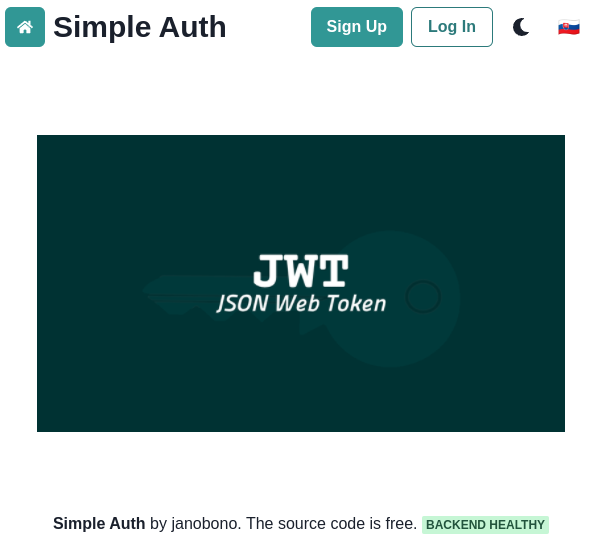
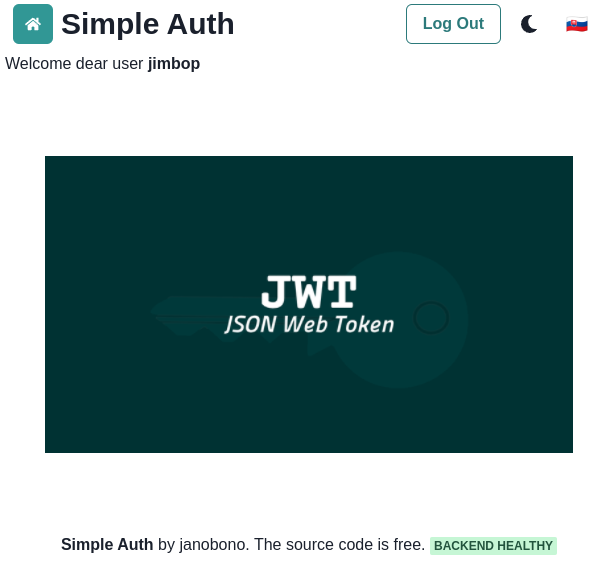
login/logout

diff --git a/simple-auth-frontend/src/contexts/auth-context.tsx b/simple-auth-frontend/src/contexts/auth-context.tsx
@@ -1,25 +1,30 @@
 import React, { FunctionComponent, useEffect, useState } from 'react';
 import jwt_decode from 'jwt-decode';
 
+interface LoginForm {
+    username: string,
+    password: string
+}
+
 interface TokenPayload {
     exp: number,
     iat: number,
     iss: string,
-    sub: string,
+    sub: string
 }
 
 interface Payload {
     exp: Date,
     iat: Date,
     iss: string,
-    username: string,
+    username: string
 }
 
 export interface AuthContextValue {
     bearer: String | undefined,
     payload: Payload | undefined,
     onLogout: () => void,
-    onLogin: (username: string, password: string) => Promise<number>
+    onLogin: (data: LoginForm) => Promise<any>
 }
 
 const AuthContext = React.createContext<AuthContextValue>({
@@ -27,8 +32,7 @@ const AuthContext = React.createContext<AuthContextValue>({
     payload: undefined,
     onLogout: () => {
     },
-    onLogin: async (username, password) => {
-        return 500;
+    onLogin: async (data: LoginForm) => {
     }
 });
 
@@ -38,6 +42,7 @@ export const AuthContextProvider: FunctionComponent = (props) => {
 
     const decodeToken = (token: string) => {
         const decodedPayload = jwt_decode<TokenPayload>(token);
+        console.log(decodedPayload);
         if (decodedPayload) {
             if (decodedPayload.exp * 1000 > Date.now()) {
                 localStorage.setItem('token', token);
@@ -59,27 +64,22 @@ export const AuthContextProvider: FunctionComponent = (props) => {
         }
     }, []);
 
-    const login = async (username: string, password: string) => {
-        try {
-            const response = await fetch(
-                '/api/backend/authenticate',
-                {
-                    method: 'POST',
-                    headers: {
-                        'Content-Type': 'application/json'
-                    },
-                    body: JSON.stringify({username, password})
-                });
-            if (response.status === 200) {
-                const {bearer} = await response.json();
-                decodeToken(bearer);
-            }
-            return response.status;
-        } catch (error) {
-            console.log(error);
-            logout();
+    const login = async (data: LoginForm) => {
+        const response = await fetch(
+            '/api/backend/authenticate',
+            {
+                method: 'POST',
+                headers: {
+                    'Content-Type': 'application/json'
+                },
+                body: JSON.stringify(data)
+            });
+        if (response.status === 200) {
+            const {bearer} = await response.json();
+            decodeToken(bearer);
+        } else {
+            throw new Error('Something went wrong!!!');
         }
-        return 500;
     };
 
     const logout = () => {

diff --git a/simple-auth-frontend/src/pages/LogInPage.tsx b/simple-auth-frontend/src/pages/LogInPage.tsx
@@ -1,10 +1,26 @@
-import { FunctionComponent } from 'react';
+import { FunctionComponent, useContext, useState } from 'react';
 import { FieldValues, useForm } from 'react-hook-form'
-import { Button, FormControl, FormErrorMessage, FormLabel, Input, } from '@chakra-ui/react'
+import {
+    Alert,
+    AlertIcon,
+    AlertTitle,
+    Button,
+    FormControl,
+    FormErrorMessage,
+    FormLabel,
+    Input,
+} from '@chakra-ui/react'
 import { useTranslation } from 'react-i18next';
+import { useNavigate } from 'react-router';
+import { useMutation } from 'react-query';
+import AuthContext from '../contexts/auth-context';
 
 const LogInPage: FunctionComponent = () => {
     const {t} = useTranslation();
+    const navigate = useNavigate();
+    const authCtx = useContext(AuthContext);
+
+    const [error, setError] = useState(false);
 
     const {
         handleSubmit,
@@ -12,8 +28,18 @@ const LogInPage: FunctionComponent = () => {
         formState: {errors, isSubmitting},
     } = useForm();
 
+    const {mutate} = useMutation(authCtx.onLogin, {
+        onSuccess: data => {
+            navigate('/');
+        },
+        onError: () => {
+            setError(true);
+        }
+    });
+
     const onSubmit = async (values: FieldValues) => {
-        alert(JSON.stringify(values, null, 2));
+        setError(false);
+        mutate({username: values.username, password: values.password});
     }
 
     return (
@@ -51,6 +77,13 @@ const LogInPage: FunctionComponent = () => {
             <Button mt={4} isLoading={isSubmitting} type="submit">
                 {t('logIn.submit')}
             </Button>
+
+            {error &&
+                <Alert status="error">
+                    <AlertIcon/>
+                    <AlertTitle mr={2}>{t('logIn.error')}</AlertTitle>
+                </Alert>
+            }
         </form>
     );
 }

diff --git a/simple-auth-frontend/src/components/layout/Header.tsx b/simple-auth-frontend/src/components/layout/Header.tsx
@@ -49,14 +49,8 @@ const Header: FunctionComponent = () => {
                                     authCtx.onLogout();
                                     navigate('/');
                                 }}>{t('header.log-out')}</Button>
-                                : <React.Fragment>
-                                    <Button colorScheme="teal" variant="solid" onClick={() => navigate('/sign-up')}>
-                                        {t('header.sign-up')}
-                                    </Button>
-                                    <Button colorScheme="teal" variant="outline" onClick={() => navigate('/log-in')}>
-                                        {t('header.log-in')}
-                                    </Button>
-                                </React.Fragment>
+                                : <Button colorScheme="teal" variant="outline" onClick={() => navigate('/log-in')}>
+                                    {t('header.log-in')}</Button>
                             }
                             <ColorModeSwitcher justifySelf="flex-end"/>
                             <LocaleSwitcher/>
@@ -65,8 +59,7 @@ const Header: FunctionComponent = () => {
                 </Flex>
                 {authCtx.payload &&
                     <Stack>
-                        <Text>Welcome dear
-                            user <strong>{authCtx.payload.username} {authCtx.payload.iat}</strong></Text>
+                        <Text>{t('header.welcome')}<span> </span><strong>{authCtx.payload.username}</strong></Text>
                     </Stack>
                 }
             </Container>

diff --git a/simple-auth-frontend/src/App.tsx b/simple-auth-frontend/src/App.tsx
@@ -3,7 +3,6 @@ import Layout from './components/layout/Layout';
 import { BrowserRouter, Route, Routes } from 'react-router-dom';
 import HomePage from './pages/HomePage';
 import LogInPage from './pages/LogInPage';
-import SignUpPage from './pages/SignUpPage';
 
 function App() {
     return (
@@ -12,7 +11,6 @@ function App() {
                 <Routes>
                     <Route path="/" element={<HomePage/>}/>
                     <Route path="/log-in" element={<LogInPage/>}/>
-                    <Route path="/sign-up" element={<SignUpPage/>}/>
                     <Route path="*" element={<HomePage/>}/>
                 </Routes>
             </Layout>

diff --git a/README.md b/README.md
@@ -38,14 +38,14 @@ docker-compose down
 
 If you want you can import test user with attributes:
 
-| attribute   | value                      |
-|-------------|----------------------------|
-| username    | trevor.ochmonek.dev        |
-| password    | MelmacAlf+456              |
-| email       | trevor.ochmonek@melmac.com |
-| given_name  | Trevor                     |
-| family_name | Ochmonek                   |
-| app_code    | simple-123                 |
+| attribute   | value                 |
+|-------------|-----------------------|
+| username    | jimbop                |
+| password    | pass123               |
+| email       | jimbo.pytlik@test.com |
+| given_name  | Jimbo                |
+| family_name | Pytlik              |
+| app_code    | simple-123            |
 
 - [test_user.sql](./test_user.sql)
 
